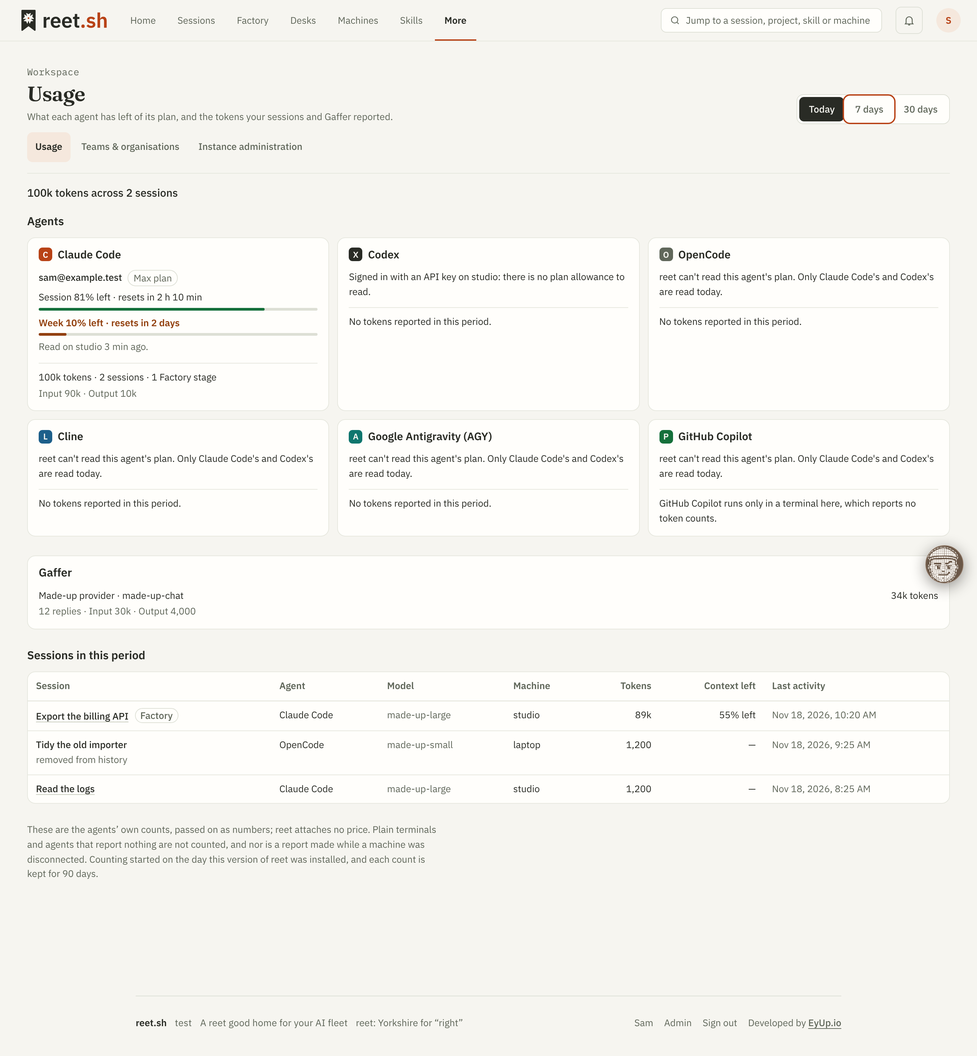
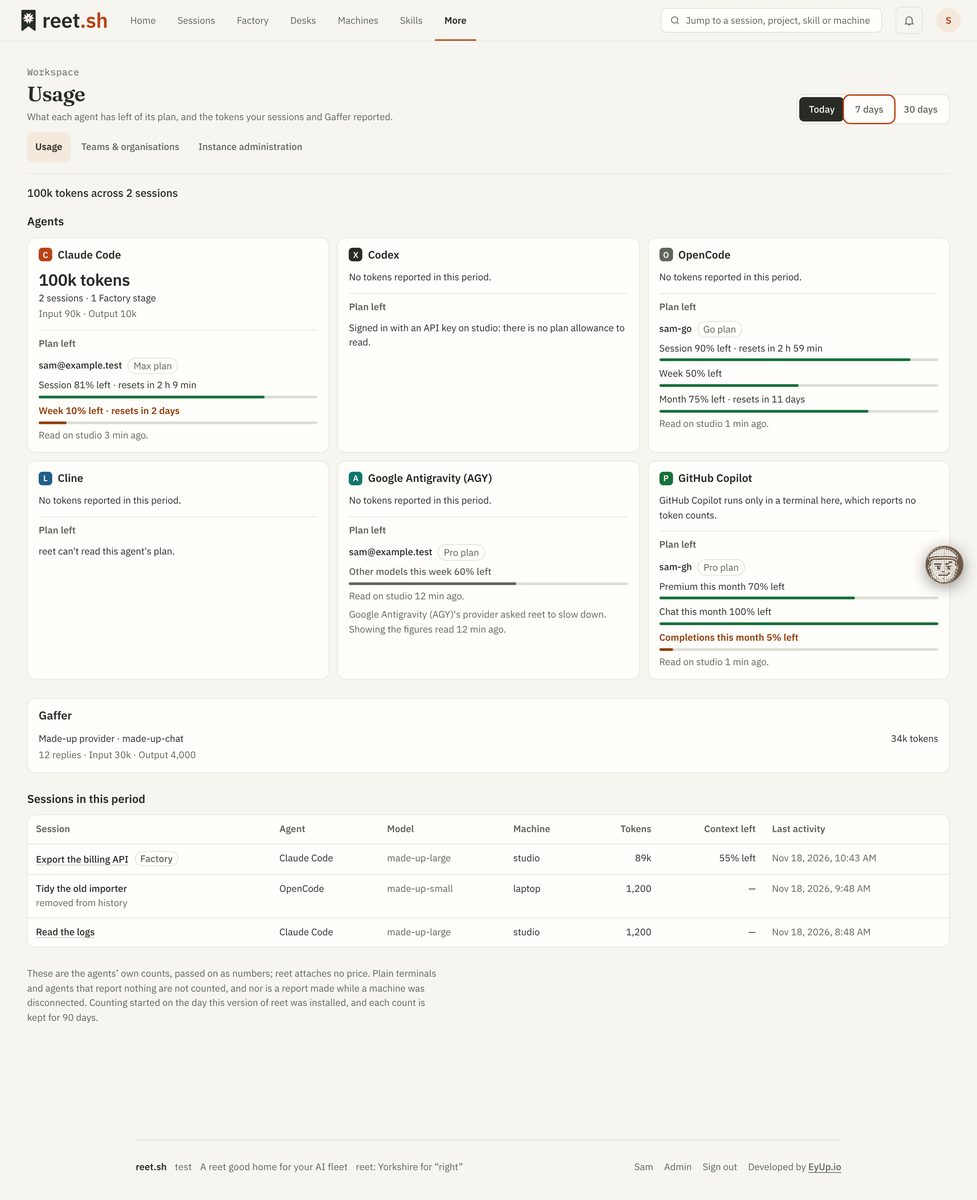
Draw any agent's plan on the Usage page and say why from the answer
The owner asked that usage should just work for any agent on a machine,
and machines are to read more agents' plans. Nothing now names a fixed
pair: each agent's block leads with the tokens its sessions reported and
draws whatever accounts and windows a machine answers for it, scoped and
monthly windows included. With no figure, the sentence comes from the
answer's states: no sign-in, no plan allowance, a sign-in to renew, a
provider that slowed reet down or could not be reached, terminal access
off, or no machine answering for that agent at all. A reset just short
of the hour no longer reads "2 h 60 min". The More list's new item is in
the navigation suites.

Claude-Session: https://claude.ai/code/session_011MNNzram3Xr2uZ9UFhX8yQ

diff --git a/web/src/lib/usage.ts b/web/src/lib/usage.ts
@@ -2,7 +2,7 @@
 // each agent used, and, for an agent with no plan figures, the one sentence that says why. Pure on purpose: the unit test
 // loads this file with the two self-contained modules it borrows from.
 import { compactTokens } from './gafferOutcome'
-import { limitLines, limitsNote, planEntries, type AgentAccount, type MachineAccounts, type PlanEntry } from './agentAccounts'
+import { limitLines, planEntries, readAgo, type AgentAccount, type MachineAccounts, type PlanEntry } from './agentAccounts'
 
 export type UsagePeriod = 'today' | 'week' | 'month'
 export const PERIODS: { id: UsagePeriod; label: string; days: number }[] = [
@@ -18,9 +18,6 @@ export type UsageAnswer = { from: number; to: number; since: number; agents: Usa
 
 /** One machine as the page knows it: whether it reads sign-ins, whether terminal access is off, and its last answer. */
 export type MachinePlanRead = { host: string; reads: boolean; terminalOff: boolean; answer: MachineAccounts | null; error?: boolean }
-
-/** The agents whose plan reet reads today. */
-export const PLAN_TOOLS = ['claude', 'codex']
 
 export const tokens = compactTokens
 const plural = (n: number, one: string, many = `${one}s`) => `${n.toLocaleString('en-GB')} ${n === 1 ? one : many}`
@@ -78,14 +75,15 @@ export function totalsLine(answer: UsageAnswer, timeZone: string, dateFormat = '
   return `${tokens(total)} ${total === 1 ? 'token' : 'tokens'} across ${plural(sessions, 'session')}${since}`
 }
 
-/** What one agent used in the period, as a line and a quieter detail; or why there is nothing. */
-export function agentTokens(agent: UsageAgent): { line: string; detail: string } {
-  if (agent.reports === 'terminal_only') return { line: `${agent.name} runs only in a terminal here, which reports no token counts.`, detail: '' }
+/** What one agent used in the period: the figure itself (the most prominent thing for an agent with no plan to read),
+ *  the sessions behind it, and a quieter detail; or, with no figure, the sentence that says why. */
+export function agentTokens(agent: UsageAgent): { figure: string; line: string; detail: string } {
+  if (agent.reports === 'terminal_only') return { figure: '', line: `${agent.name} runs only in a terminal here, which reports no token counts.`, detail: '' }
   const total = spent(agent)
-  if (!total && !agent.cached && !agent.sessions) return { line: 'No tokens reported in this period.', detail: '' }
+  if (!total && !agent.cached && !agent.sessions) return { figure: '', line: 'No tokens reported in this period.', detail: '' }
   const factory = agent.factoryStages ? ` · ${plural(agent.factoryStages, 'Factory stage')}` : ''
   const detail = [`Input ${tokens(agent.input || 0)}`, `Output ${tokens(agent.output || 0)}`, ...(agent.cached ? [`Cached ${tokens(agent.cached)}`] : [])].join(' · ')
-  return { line: `${tokens(total)} ${total === 1 ? 'token' : 'tokens'} · ${plural(agent.sessions, 'session')}${factory}`, detail }
+  return { figure: `${tokens(total)} ${total === 1 ? 'token' : 'tokens'}`, line: `${plural(agent.sessions, 'session')}${factory}`, detail }
 }
 
 /** The plans signed in for an agent across the machines, one per account (the freshest read wins, as the chips do). */
@@ -100,10 +98,32 @@ export function planLines(entry: PlanEntry, now: number): { key: string; name: s
 
 const orList = (hosts: string[]) => hosts.length <= 1 ? hosts.join('') : `${hosts.slice(0, -1).join(', ')} or ${hosts[hosts.length - 1]}`
 
-/** Why an agent has no plan figure, in one sentence, from what the machines said. Asked only when there is none. */
+/** Why the latest read of a signed-in plan has no new figures, in the page's words; '' when it has. Figures kept from
+ *  before are still shown, dimmed, under this line. */
+function readProblem(account: AgentAccount, name: string, host: string): string {
+  switch (account.limitsState) {
+    case 'renew': return `Open ${name} on ${host} to sign in again.`
+    case 'refused': return `${name}'s provider refused the sign-in on ${host} when asked for the plan.`
+    case 'rate_limited': return `${name}'s provider asked reet to slow down.`
+    case 'failed': return `${name}'s provider could not be reached from ${host} just now.`
+  }
+  return ''
+}
+
+/** The line under a plan whose latest read failed, with how old the figures shown are; '' when they are current. */
+export function planNote(entry: PlanEntry, name: string, now: number): string {
+  const problem = readProblem(entry.account, name, entry.host)
+  if (!problem) return ''
+  const age = readAgo(entry.account.limitsAt, now)
+  return age ? `${problem} Showing the figures read ${age}.` : problem
+}
+
+/** Why an agent has no plan figure, in one sentence chosen from what the machines answered for it. Nothing here
+ *  depends on which agent it is: any agent a machine reads appears in its answer, and one no machine answers for is one
+ *  reet cannot read there (the machine's reet is too old for it, or reet has no reader for it). */
 export function planSentence(tool: string, name: string, machines: MachinePlanRead[], now: number): string {
-  if (!PLAN_TOOLS.includes(tool)) return "reet can't read this agent's plan. Only Claude Code's and Codex's are read today."
-  if (!machines.length) return `No machine is connected that could read ${name}’s sign-in.`
+  void now
+  if (!machines.length) return 'No connected machine reports sign-ins.'
   const reading = machines.filter(m => m.reads)
   if (!reading.length) {
     const off = machines.filter(m => m.terminalOff)
@@ -111,24 +131,28 @@ export function planSentence(tool: string, name: string, machines: MachinePlanRe
     return `Update reet on ${orList(machines.map(m => m.host))} to see which agents are signed in.`
   }
   const found = reading.map(m => ({ machine: m, account: m.answer?.accounts?.find(a => a.tool === tool) as AgentAccount | undefined }))
-  // A read that failed says why first: it is the one thing the person may be able to fix.
-  for (const { machine, account } of found) {
-    if (account?.state !== 'signed_in' || account.method === 'api_key') continue
-    const note = limitsNote(account, name, now)
-    if (!note || account.limitsState === 'unsupported') continue
-    return `The latest read on ${machine.host} failed: ${note.startsWith(name) ? note : note[0].toLowerCase() + note.slice(1)}`
-  }
-  const key = found.find(f => f.account?.state === 'signed_in' && f.account.method === 'api_key')
-  if (key) return `Signed in with an API key on ${key.machine.host}: there is no plan allowance to read.`
+  const signedIn = found.filter(f => f.account?.state === 'signed_in')
+  // A sign-in to renew first, then a read that failed: they are what the person may be able to fix.
+  const renew = signedIn.find(f => f.account!.limitsState === 'renew')
+  if (renew) return readProblem(renew.account!, name, renew.machine.host)
+  const problem = signedIn.find(f => readProblem(f.account!, name, f.machine.host))
+  if (problem) return readProblem(problem.account!, name, problem.machine.host)
+  const noPlan = signedIn.find(f => f.account!.method === 'api_key' || f.account!.limitsState === 'unsupported')
+  if (noPlan) return noPlan.account!.method === 'api_key'
+    ? `Signed in with an API key on ${noPlan.machine.host}: there is no plan allowance to read.`
+    : `Signed in on ${noPlan.machine.host}, but the account has no plan allowance to read.`
   const unreadable = found.filter(f => f.account?.state === 'unreadable')
   if (unreadable.length) return `reet can't read ${name}'s sign-in on ${orList(unreadable.map(f => f.machine.host))}.`
-  const waiting = found.find(f => f.account?.state === 'signed_in')
+  const waiting = signedIn[0]
   if (waiting) return `${waiting.machine.host} has not read the plan yet. It reads it the next time it is asked.`
+  const none = found.filter(f => f.account?.state === 'none')
+  if (none.length) return `No sign-in found on ${orList(none.map(f => f.machine.host))}.`
   const failed = found.find(f => f.machine.error)
   if (failed) return `reet couldn't ask ${failed.machine.host} for its sign-ins just now.`
-  const said = found.find(f => !f.account && f.machine.answer && f.machine.answer.state !== 'read' && f.machine.answer.sentence)
+  const said = found.find(f => f.machine.answer && f.machine.answer.state !== 'read' && f.machine.answer.sentence && !f.machine.answer.accounts?.length)
   if (said) return `${said.machine.host}: ${said.machine.answer!.sentence}`
-  return `No sign-in found on ${orList(found.map(f => f.machine.host))}.`
+  // Every machine answered, and none said anything of this agent.
+  return "reet can't read this agent's plan."
 }
 
 /** How much of a session's context window was left at its last report. '' when the agent never said. */

diff --git a/web/src/lib/UsagePage.svelte b/web/src/lib/UsagePage.svelte
@@ -7,12 +7,12 @@
   import Skeleton from './Skeleton.svelte'
   import AgentMark from './AgentMark.svelte'
   import { UnauthorizedError } from './api'
-  import { limitsNote, readAgo } from './agentAccounts'
+  import { readAgo } from './agentAccounts'
   import { machinePlans } from './planLimits'
   import { formatWhen } from './time'
   import { terminalMachines, TerminalError, usageFor } from './terminal/api'
   import {
-    PERIODS, agentPlans, agentTokens, contextLeftText, keepPeriod, periodRange, planLines, planSentence, readPeriod,
+    PERIODS, agentPlans, agentTokens, contextLeftText, keepPeriod, periodRange, planLines, planNote, planSentence, readPeriod,
     sessionHref, sessionTitle, tokens, totalsLine, type MachinePlanRead, type UsageAnswer, type UsagePeriod,
   } from './usage'
 
@@ -131,10 +131,16 @@
           {@const used = agentTokens(agent)}
           <section class="card agent" data-usage-agent={agent.tool} aria-labelledby={`usage-agent-${agent.tool}`}>
             <h3 id={`usage-agent-${agent.tool}`}><AgentMark tool={agent.tool} size={20} /><span>{agent.name}</span></h3>
+            <div class="spent" data-tokens>
+              {#if used.figure}<p class="figure" data-figure>{used.figure}</p>{/if}
+              <p class="line">{used.line}</p>
+              {#if used.detail}<p class="detail">{used.detail}</p>{/if}
+            </div>
             <div class="plans" data-plans>
+              <h4>Plan left</h4>
               {#if plans.length}
                 {#each plans as entry (entry.key)}
-                  {@const note = limitsNote(entry.account, agent.name, now)}
+                  {@const note = planNote(entry, agent.name, now)}
                   <div class="plan" class:stale={entry.stale} data-plan={entry.account.account ?? entry.host}>
                     <p class="who">
                       {#if entry.account.account}<span class="account">{entry.account.account}</span>{/if}
@@ -149,18 +155,16 @@
                       {/each}
                     </ul>
                     <p class="source">Read on {entry.host}{readAgo(entry.account.limitsAt, now) ? ` ${readAgo(entry.account.limitsAt, now)}` : ''}.</p>
-                    {#if note}<p class="source note">{note}</p>{/if}
+                    {#if note}<p class="source note" data-plan-note>{note}</p>{/if}
                   </div>
                 {/each}
-              {:else if machines || machinesFailed || !['claude', 'codex'].includes(agent.tool)}
-                <p class="why" data-plan-why>{machinesFailed && !machines ? (['claude', 'codex'].includes(agent.tool) ? 'Your machines could not be read just now, so neither could their sign-ins.' : planSentence(agent.tool, agent.name, [], now)) : planSentence(agent.tool, agent.name, machines ?? [], now)}</p>
+              {:else if machines}
+                <p class="why" data-plan-why>{planSentence(agent.tool, agent.name, machines, now)}</p>
+              {:else if machinesFailed}
+                <p class="why" data-plan-why>Your machines could not be read just now, so neither could their sign-ins.</p>
               {:else}
                 <p class="why muted">Reading sign-ins…</p>
               {/if}
-            </div>
-            <div class="spent" data-tokens>
-              <p class="line">{used.line}</p>
-              {#if used.detail}<p class="detail">{used.detail}</p>{/if}
             </div>
           </section>
         {/each}
@@ -277,9 +281,12 @@
   .source, .why, .detail, .more, .removed { margin: 0; color: var(--muted); font-size: 14px; overflow-wrap: anywhere; }
   .why { color: var(--ink); }
   .why.muted { color: var(--muted); }
-  .spent { padding-top: 10px; border-top: 1px solid var(--line-soft); }
+  .spent { display: grid; gap: 2px; }
+  .figure { margin: 0; font: 600 1.5rem/1.2 var(--sans); font-variant-numeric: tabular-nums; letter-spacing: -0.01em; }
+  .plans { padding-top: 10px; border-top: 1px solid var(--line-soft); }
+  h4 { margin: 0; color: var(--muted); font: 600 14px/1.3 var(--sans); }
   .line { margin: 0; font-variant-numeric: tabular-nums; }
-  .spent .detail { margin-top: 2px; font-variant-numeric: tabular-nums; }
+  .spent .detail { font-variant-numeric: tabular-nums; }
   .muted { color: var(--muted); }
 
   .models { display: grid; gap: 10px; margin: 0; padding: 0; list-style: none; }

diff --git a/web/src/lib/agentAccounts.ts b/web/src/lib/agentAccounts.ts
@@ -12,7 +12,7 @@ export type MachineAccounts = { state: 'read' | 'offline' | 'update' | 'off' | '
 export type LimitLine = { key: string; name: string; left: number; low: boolean; text: string; resets: string }
 
 /** What reet reads of each agent's plan, said once for Settings > Agents and the Usage page. */
-export const PLAN_LIMITS_HELP = "Each of your machines with terminal access on uses an agent's own sign-in to ask that agent's provider how much of your plan is left. The sign-in stays on the machine and is never renewed by reet; the controller is sent the account's name, the plan and percentages. Claude Code and Codex are read today."
+export const PLAN_LIMITS_HELP = "Each of your machines with terminal access on uses an agent's own sign-in to ask that agent's provider how much of your plan is left. The sign-in stays on the machine and is never renewed by reet; the controller is sent the account's name, the plan and percentages. This is done for the agents reet can read a plan for."
 
 /** At or under this share of a window left, the figure is marked low. */
 export const LOW_LIMIT_PERCENT = 15
@@ -41,8 +41,9 @@ export function resetsIn(at: number | undefined, now: number): string {
   const left = at - now
   if (left <= 0) return 'reset due'
   if (left < MINUTE) return 'resets in under a minute'
-  if (left < HOUR) return `resets in ${Math.round(left / MINUTE)} min`
-  if (left < DAY) { const h = Math.floor(left / HOUR), m = Math.round((left - h * HOUR) / MINUTE); return `resets in ${h} h${m ? ` ${m} min` : ''}` }
+  if (Math.round(left / MINUTE) < 60) return `resets in ${Math.round(left / MINUTE)} min`
+  // Rounded to the minute first, so 2 h 59.6 min reads 3 h, never 2 h 60 min.
+  if (left < DAY) { const minutes = Math.round(left / MINUTE), h = Math.floor(minutes / 60), m = minutes % 60; return `resets in ${h} h${m ? ` ${m} min` : ''}` }
   const d = Math.floor(left / DAY), h = Math.round((left - d * DAY) / HOUR)
   return `resets in ${d} ${d === 1 ? 'day' : 'days'}${d === 1 && h ? ` ${h} h` : ''}`
 }

diff --git a/web/src/lib/GafferOutcome.svelte b/web/src/lib/GafferOutcome.svelte
@@ -433,7 +433,7 @@
               <label for={`${formId}-balance`}>Switch to a backup below</label>
               <span class="percent"><input id={`${formId}-balance`} type="number" inputmode="numeric" min={BALANCE_MIN_PERCENT} max={BALANCE_MAX_PERCENT} step="5" bind:value={balanceBelow} disabled={planning} aria-describedby={`${formId}-balance-unit`} onblur={() => balanceBelow = balancePercent(balanceBelow)}/><span id={`${formId}-balance-unit`}>% of the first choice’s plan left</span></span>
             </div>
-            <p class="hint">{anyBackup ? `A stage starts on its tier’s backup when the first choice’s plan has under ${balancePercent(balanceBelow)}% left in its tightest window and the backup’s has more. The stage says when that happened and why.` : 'No tier has a backup yet, so every stage runs on its first choice.'} Balancing needs the machine to be able to read the agent’s plan (Claude Code and Codex today); without figures every stage stays on its first choice.</p>
+            <p class="hint">{anyBackup ? `A stage starts on its tier’s backup when the first choice’s plan has under ${balancePercent(balanceBelow)}% left in its tightest window and the backup’s has more. The stage says when that happened and why.` : 'No tier has a backup yet, so every stage runs on its first choice.'} Balancing needs the machine to be able to read the agent’s plan; without figures every stage stays on its first choice.</p>
             <p class="crew-save"><button class="link" type="button" disabled={planning || crewSaving || !tools.length} onclick={() => void rememberCrew()}>{crewSaving ? 'Saving…' : 'Save as my crew'}</button> <span role="status">{crewNote}</span></p>
           </details>
           {#if github}

diff --git a/web/src/lib/AgentsSettings.svelte b/web/src/lib/AgentsSettings.svelte
@@ -10,6 +10,7 @@
   import { KNOWN_SOURCES } from './clineSource'
   import { CHAT_GATE_HELP, chatToggles, chatTogglePatch } from './chatAgents'
   import { PLAN_LIMITS_HELP } from './agentAccounts'
+  import { AGENT_ACCOUNTS_DOC_URL } from './links'
   import { cleanModel, modelSuggestions, toolName, validateModel } from './agentLaunch'
   import {
     dedupeModels, defaultLabel, effortChoices, favouriteKey, modelOptions, starLabel,
@@ -517,7 +518,7 @@
   <section class="usage" data-usage-note aria-labelledby="agents-usage-title">
     <h3 id="agents-usage-title">Usage</h3>
     <p class="muted">{PLAN_LIMITS_HELP}</p>
-    <p class="see"><a href="/usage">See all usage</a></p>
+    <p class="see"><a href="/usage">See all usage</a><a href={AGENT_ACCOUNTS_DOC_URL} target="_blank" rel="noopener noreferrer">Which agents reet can read<span class="vh"> (opens in a new tab)</span></a></p>
   </section>
 
   <h3>Favourite models</h3>
@@ -616,7 +617,7 @@
   .picker .value { min-width: 0; overflow-wrap: anywhere; }
   .picker .chev { flex: none; color: var(--muted); }
   .formacts { display: flex; justify-content: flex-end; }
-  .usage .see { margin: 4px 0 0; }
+  .usage .see { display: flex; flex-wrap: wrap; gap: 0 20px; margin: 4px 0 0; }
   .usage .see a { display: inline-flex; align-items: center; min-height: 32px; color: var(--accent-text); }
   .usage .see a:focus-visible { outline: 2px solid var(--accent); outline-offset: 2px; border-radius: 4px; }
   @media (pointer: coarse) { .usage .see a { min-height: 44px; } }

diff --git a/web/src/lib/GafferCrewSettings.svelte b/web/src/lib/GafferCrewSettings.svelte
@@ -139,7 +139,7 @@
       <label for={`${formId}-below`}>Switch to a backup below</label>
       <span class="percent"><input id={`${formId}-below`} type="number" inputmode="numeric" min={BALANCE_MIN_PERCENT} max={BALANCE_MAX_PERCENT} step="5" bind:value={below} disabled={busy} aria-describedby={`${formId}-below-unit`} onblur={() => below = balancePercent(below)}/><span id={`${formId}-below-unit`}>% of the first choice’s plan left</span></span>
     </div>
-    <p class="hint">A stage starts on its tier’s backup when the first choice’s plan has under this much left in its tightest window and the backup’s has more. It needs the machine to be able to read the agent’s plan: Claude Code and Codex today.</p>
+    <p class="hint">A stage starts on its tier’s backup when the first choice’s plan has under this much left in its tightest window and the backup’s has more. It needs the machine to be able to read the agent’s plan.</p>
     <div class="row who" role="group" aria-label="Decisions, when a stage stops"><span class="who-name">Decisions, when a stage stops</span>
       <div class="choice" role="radiogroup" aria-label="Who decides by default">
         <label class:on={!decides}><input type="radio" name={`${formId}-who`} checked={!decides} disabled={busy} onchange={() => decides = false}/>Ask me</label>

diff --git a/web/src/lib/links.ts b/web/src/lib/links.ts
@@ -9,4 +9,6 @@ export const DEVELOPER_URL = 'https://eyup.io'
 export const REPO_URL = 'https://github.com/eyupio/reet.sh'
 export const DOCS_URL = `https://reet.sh/documentation/`
 export const LICENSE_URL = `${REPO_URL}/blob/main/LICENSE`
+/** Which agents reet can read a plan for, and how. */
+export const AGENT_ACCOUNTS_DOC_URL = `${REPO_URL}/blob/main/docs/agent-accounts.md`
 export const ROADMAP_URL = `${REPO_URL}/blob/main/docs/roadmap.md`

diff --git a/README.md b/README.md
@@ -57,7 +57,7 @@ Nothing is sent to skills.sh except read-only page fetches for names and descrip
 - **Session progress and workspace.** The right panel (under **Details** on smaller screens) has Overview, Changes, Files and GitHub views. Catch up on recent agent activity and requests waiting for you, inspect checkout or worktree changes with line bars and diffs, browse files without editing, and see PR reviews, conflicts and CI checks. Last-check labels distinguish current and last-known data. GitHub status uses the GitHub CLI signed in on the session's machine. See [session workspace details](docs/terminal-workspace.md#session-workspace-details).
 - **Skills in a session.** A **Skills** button in Gaffer composer and the agent TUI toolbar lists skills on the session's machine for its agent, those for other agents (dimmed) and reet-hosted skills. Picking one puts `Use the {name} skill.` in the message box, or types it into the terminal without Enter; nothing is sent for you. Typing `/` first in Gaffer composer opens the same list. A published hosted skill can be installed from the picker after you approve a preview. See [the terminal workspace](docs/terminal-workspace.md#skills-in-a-session).
 - **Agents in Gaffer.** Start OpenCode (1.19.5 or newer, accepting ACP), Cline (3.0.74 or newer, `--acp`) or Google Antigravity (AGY 1.5.0 or newer, `agy acp`) in reet's own native view instead of its terminal UI; streamed messages, tool calls, a model choice, Allow once / Deny cards with an optional allow-for-this-session command or file, a live Ask me ↔ YOLO switch, attachments as machine paths, and reopen a closed reet session with its stored history. A monochrome Gaffer with a tiled flat cap, grid-filled face and dashed phosphor outline supervises the agent with unhurried cap-tips, job-sheet reading, tea sips, biscuit inspection, shrugs and deadpan double takes. His transparent ink follows the light or dark theme, and state changes blend smoothly without changing his size. Deliberate nudges earn varied Yorkshire quips and reactions, with a short memory for repeated pokes and one pending gesture at most. He keeps a compact work update showing the current tool, recent activity and time observed in the view. A collapsible executive summary follows a finished or stopped turn and covers retained activity across the session when it ends, with the agent’s handover, file operations, command results and any snags. Returning to an active session catches him with a brew; returning to a finished session wakes him from a doze. Errors and requests for input take priority. Stop during prompt preparation prevents the turn from reaching the agent. **Account → Profile → Gaffer animation** turns motion off while Gaffer, quotes, updates and summaries stay visible. Trusted folders only. Chat availability is reported per agent on current connectors; OpenCode, Cline and AGY are enabled, while Claude Code and Codex stay dark behind a machine switch. See [structured sessions](docs/structured-sessions.md).
-- **Which agents are signed in, and how much plan is left.** A machine's Settings → **Agents** says whether Claude Code and Codex are signed in there, as whom and on which plan, read from the agents' own files, and the Start dialog says when no sign-in was found before you start. Each machine also reads the session and weekly allowance left on those plans, asking the agent's provider from the machine with the agent's own sign-in. The sign-in never leaves the machine and is never renewed by reet; the controller keeps a name, a plan and percentages. Read for every account, with no switch, on machines with terminal access on. See [agent sign-ins and plan limits](docs/agent-accounts.md).
+- **Which agents are signed in, and how much plan is left.** A machine's Settings → **Agents** says which of its agents are signed in there, as whom and on which plan, read from the agents' own files, and the Start dialog says when no sign-in was found before you start. Each machine also reads the allowance left on those plans (for the agents reet can read a plan for), asking the agent's provider from the machine with the agent's own sign-in. The sign-in never leaves the machine and is never renewed by reet; the controller keeps a name, a plan and percentages. Read for every account, with no switch, on machines with terminal access on. See [agent sign-ins and plan limits](docs/agent-accounts.md).
 - **Usage.** More → **Usage** lists every agent: how much of each signed-in plan is left, and the tokens its chats and Factory stages reported today, over 7 days or over 30 days, with the sessions behind the figures and Gaffer's own requests. An agent with nothing to show says why. See [usage](docs/usage.md).
 - **Agent software, installed from one verified artifact.** On a Linux machine, Settings → **Software** shows OpenCode's exact installed version, package evidence, executable path and platform, or says it is not installed. reet can review and apply an install, update, rollback or remove of its own copy at the pinned 1.19.5: it downloads the recorded tarball, verifies its sha512 and binary sha256, keeps its own copy beside any system installation, refuses while OpenCode sessions run, restores the previous managed copy if verification fails, and can roll back to a kept version. Only reet's own copy is updated or removed. Machines → **Software** reviews each machine's plan side by side. Choose machines into an ordered batch and reet applies them one at a time, stopping at the first failure with retry, skip and continue, or abandon. A controller-side artifact mirror, off unless an owner or admin turns it on, lets machines that cannot reach npm download the same verified artifact from reet. See [agent software](docs/agent-software.md).
 - **An interactive CLI home.** Run `reet` in a terminal for a grouped, searchable list of existing tasks. Use arrows or `j`/`k`, Enter, `/` to search, `e` to edit arguments, Escape to return and `q` to quit. Commands keep their own flags, authentication and confirmations, and their output stays visible until you return home or exit. Doctor, healthcheck and upgrade show compact progress during real work. [CLI home](docs/cli-home.md).

diff --git a/handoff.md b/handoff.md
@@ -28,6 +28,16 @@ on every screen size, with **"See all usage"** in the plan chips' panel. The pri
 their agent (OpenCode on a hosted model) has no plan reet can read, so Home showed nothing; the page must never be a
 silent blank.
 
+**Scope change during the work.** The owner then said the plan as described "isn't ideal, it should just work: if a
+user has an agent on a machine, show usage stats", and chose to have machines also read OpenCode (Go/Zen), Antigravity
+and Copilot plans; those readers come from a separate branch. So nothing here names a fixed pair of agents: a block
+draws whatever accounts and windows any machine answers for any tool (scoped and month/day windows included), each
+block leads with its token figure (for an agent with no plan, the only figures there are), and the no-figure sentence
+comes from the answer's states (`planSentence`, `planNote` in `usage.ts`): no sign-in, API key or no plan allowance,
+"Open <Agent> on <machine> to sign in again", provider slowed down or unreachable (last figures dimmed), terminal access
+off, no connected machine reporting sign-ins, and only where no machine answers for the agent at all, "reet can't read
+this agent's plan". Settings → Agents says "the agents reet can read a plan for" and links to the sign-ins doc.
+
 **Controller.** `AddTerminalSessionUsage` now also writes a dated row to `terminal_usage_events` (user, session,
 machine id, tool, model, structured, at, input, output, cached; index on `(user_id, at)`) in the same transaction as
 the running total, for every report with tokens. The session's latest title, machine name and project are kept in
@@ -51,7 +61,8 @@ docs say it needs the machine to be able to read the agent's plan.
 **Web.** `/usage`, More → Workspace → Usage for `sessionsAccess`. Period buttons with `aria-pressed`, remembered as
 `reet.usage.period.<userId>`; ranges from the account's time zone (`usage.ts`, DST-safe); quiet refresh each minute
 while visible; table above 700 px, cards below. Plan blocks reuse `planEntries`, `limitLines`, `limitsNote` and
-`machinePlans`. Settings → Agents lost its fieldset; MachineSettings lost its off-state branches.
+`machinePlans`. Settings → Agents lost its fieldset; MachineSettings lost its off-state branches. `resetsIn` rounds to the minute
+before splitting hours (it could say "2 h 60 min").
 
 **Tests replaced.** Go: `TestMachineAccountsFirstReadAsksForSignInsOnly` → `…FirstReadAsksForTheAllowance`;
 `…PlanLimitsFollowTheAccountSetting` → `…AnAnswerWithoutTheAllowanceIsReadAgain`; `TestMachineAccountsRefresh`
@@ -60,7 +71,9 @@ rewritten (always fresh figures, audit says limits true); `TestProfilePlanLimits
 blocks "plan limits switch", "a refused plan limits switch puts the box back" and "plan limits switch is read-only for
 a viewer" → "usage note replaces the plan limits switch" and "a viewer sees the usage note without a switch"; in
 `agent-accounts.e2e.mjs` "sign-ins without plan limits" → "sign-ins before any plan is read" (no off hint), plus a
-check that figures show whatever `planLimits` says.
+check that figures show whatever `planLimits` says. The More list grew Usage: `navigation.e2e.mjs`'s three More-list
+assertions now include it, and `supporting-nav.e2e.mjs`'s "a writer has Teams alone in Workspace, no row" became "a
+writer's Workspace row is Usage and Teams" plus "a viewer has Teams alone, no row".
 
 **Data limits.** Totals start when this version is installed (nothing earlier is dated). Reports made while a machine
 is disconnected are lost (never queued). Only chats report: plain terminals, Copilot and machines without

diff --git a/docs/ui-verification.md b/docs/ui-verification.md
@@ -10,8 +10,11 @@ switch is replaced by a sentence under **Usage** and the same link. Fixtures onl
   changes in London (25 October 2026) and New York (8 March 2026); the totals line with and without "counted since";
   each agent's tokens line; each plan sentence; the remembered period with storage that throws.
 - `node web/tests/usage.e2e.mjs` (job `phone-chat` in `terminal-browser.yml`): the More item and its landing at 1440
-  and 390; every agent block in the catalogue's order with the right sentence for a plan account, an API-key sign-in,
-  no sign-in, an unreadable agent, a terminal-only agent, a failed read, terminal access off and no machine; the
+  and 390; every agent block in the catalogue's order, tokens first, with plans drawn for any agent that has windows
+  (Claude Code session and week; OpenCode session, week and month; Copilot three monthly scoped windows; Antigravity a
+  scoped "Other models" window kept from a slowed-down read, dimmed with its line) and the right sentence for an
+  API-key sign-in, no sign-in, an expired sign-in, an agent no machine answers for (Cline), a terminal-only agent's
+  tokens, a failed read, terminal access off and no machine; the
   period switch changing the request's range and the totals, remembered across a reload; the sessions table, and its
   cards at 390 with 44 px links; the Factory and removed-from-history marks; the empty account; a quiet refresh that
   fails keeping the last figures, then **Try again**; a refused read signing out; **See all usage** from Home's chips;
@@ -22,8 +25,9 @@ switch is replaced by a sentence under **Usage** and the same link. Fixtures onl
 
 Captures, at device scale 2, each looked at:
 
-- ![Usage at 1440, light](images/ui/usage-1440-light.png) — six agent blocks in three columns, the Claude plan with
-  its low week window in the warning colour, the sessions table with numbers right-aligned.
+- ![Usage at 1440, light](images/ui/usage-1440-light.png) — six agent blocks in three columns, each led by its token
+  figure; plans for Claude Code, OpenCode, Antigravity and Copilot with their scoped and monthly windows, low windows in
+  the warning colour and the Antigravity figures dimmed; the sessions table with numbers right-aligned.
 - ![Usage at 834, dark](images/ui/usage-834-dark.png) — two columns of agents; the table fits without scrolling. The
   first capture broke model names at their hyphens over three lines; the model column now keeps one line and the
   last-activity column wraps instead.
@@ -31,7 +35,8 @@ Captures, at device scale 2, each looked at:
   because a full-page capture draws fixed bars where the window was.
 
 Also fixed after looking: an agent's sentence once read "Google Antigravity (AGY)'s plan"; it now says "this
-agent's plan". Not checked: a screen reader, a real tablet, and a real account's figures.
+agent's plan". A reset 2 h 59.6 min away read "resets in 2 h 60 min"; `resetsIn` now rounds to the minute before
+splitting (a unit case in `agentAccounts.test.mjs`). Not checked: a screen reader, a real tablet, and a real account's figures.
 
 ## Your Factory crew: choices from the machines (17 November 2026)
 

diff --git a/docs/usage.md b/docs/usage.md
@@ -15,16 +15,21 @@ It is for accounts that can start sessions (the same accounts that have the Sess
   total, for example *1.6M tokens across 21 sessions*; when the period starts before reet began counting it adds
   *counted since 18 Nov*. With nothing counted at all it says *Nothing has been counted yet. reet counts what your
   agents report from now on.*
-- **One block per agent**, in the order reet lists its agents.
+- **One block per agent**, in the order reet lists its agents. Each starts with the tokens its sessions reported
+  in the period, which for an agent with no plan to read (OpenCode on a hosted model, say) are the only figures there
+  are.
   - **Plan left.** Each account signed in for the agent across your machines, with its plan and each window in
-    words (*Session 81% left · resets in 2 h 10 min*) and a meter, and which machine read it and when. The same account
-    on two machines is one line, from the machine that read it last. See
-    [agent sign-ins and plan limits](agent-accounts.md) for how this is read.
-  - **Where there is no figure**, one sentence chosen from what the machines said: no machine is connected that could
-    read the sign-in; *No sign-in found on studio*; *Signed in with an API key on studio: there is no plan allowance to
-    read*; *reet can't read this agent's plan* (every agent but Claude Code and Codex today); the latest read failed,
-    with the reason; terminal access is off on the machine; or reet on the machine needs updating.
-  - **Tokens.** *1.2M tokens · 14 sessions · 3 Factory stages*, with input, output and cached tokens on a second line.
+    words (*Session 81% left · resets in 2 h 10 min*, *Premium this month 70% left*) and a meter, and which machine read
+    it and when. The same account on two machines is one line, from the machine that read it last.
+  - **Where there is no figure**, one sentence chosen from what the machines answered for that agent: no connected
+    machine reports sign-ins; *No sign-in found on studio*; signed in with an API key, or to an account with no plan
+    allowance to read; *Open OpenCode on studio to sign in again* when the sign-in has expired; the provider asked reet
+    to slow down or could not be reached (the last figures stay, dimmed, under that line); terminal access is off on
+    the machine; or reet on the machine needs updating. Only when no machine answers for the agent at all (its reet is
+    too old to read that agent, or reet has no reader for it) does it say *reet can't read this agent's plan*. Which
+    agents reet can read a plan for is listed in [agent sign-ins and plan limits](agent-accounts.md).
+  - **Tokens.** *1.2M tokens*, then *14 sessions · 3 Factory stages*, with input, output and cached tokens on a
+    third line.
     An agent that reported nothing in the period says *No tokens reported in this period.* GitHub Copilot says it runs
     only in a terminal here, which reports no token counts.
 - **Gaffer.** Gaffer's own requests to its model provider in the period, per provider and model, with the number of

diff --git a/CHANGELOG.md b/CHANGELOG.md
@@ -13,15 +13,16 @@ this file existed releases were described on their GitHub release pages.
   a machine, an API key with no plan to read, an agent whose plan reet cannot
   read, a read that failed, or terminal access off. The **Plan limits** panel
   opened from the plan chips links to it with **See all usage**.
-- **Plan limits are always on**: each machine now reads how much of Claude
-  Code's and Codex's plans is left for every account. The switch in **Settings
+- **Plan limits are always on**: each machine now reads how much of each
+  agent's plan is left for every account, for the agents reet can read a plan
+  for. The switch in **Settings
   → Agents** is gone; in its place a short note under **Usage** says what is
   read and links to the page. Balancing a Factory stage to its backup now needs
   only that the machine can read the agent's plan.
 
   **Upgrading**: after this upgrade every machine with terminal access on asks
-  Claude Code's and Codex's providers, from the machine and with the agent's own
-  sign-in, how much of each plan is left, for every account, including accounts
+  the providers of the agents reet can read a plan for, from the machine and
+  with the agent's own sign-in, how much of each plan is left, for every account, including accounts
   that had never turned plan limits on. The sign-in stays on the machine; the
   controller is sent the account's name, the plan and percentages, as before.
   Token totals on the Usage page start from the day of the upgrade: nothing
